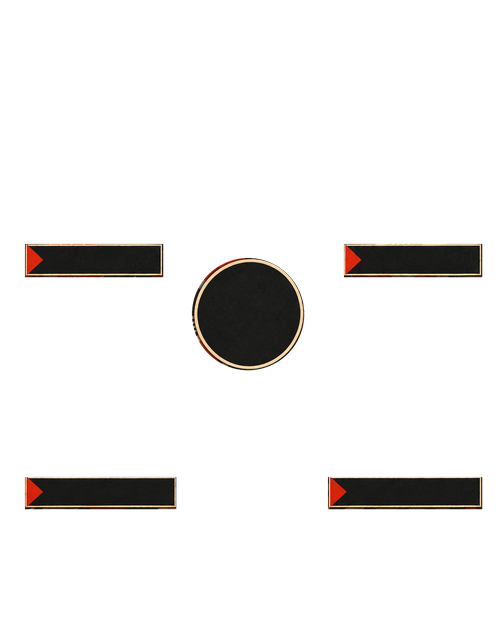
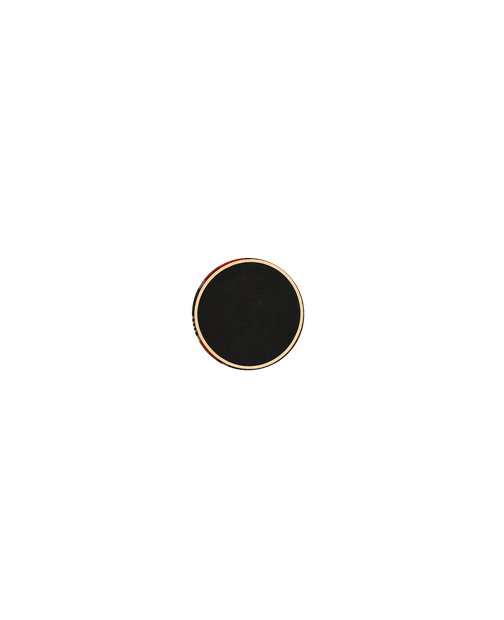
Remove sector counter plaques while keeping graphic interactions

diff --git a/tools/preview_constructivist_dashboard.py b/tools/preview_constructivist_dashboard.py
@@ -63,7 +63,7 @@ def browser():
     # This export deliberately uses separate art / text / animation layers.
     # JavaScript demonstrator changes displayed sample state; never a save edit.
     s=['<!doctype html><html lang="zh-CN"><meta charset="utf-8"><meta name="viewport" content="width=device-width,initial-scale=1"><title>国家建设委员会 · 动态成品预览</title><style>',
-       'body{margin:0;background:#101211;color:#e3dfcf;font-family:"Microsoft YaHei",sans-serif}main{width:504px;margin:20px auto}header{font-size:12px;color:#aaa;margin-bottom:10px;display:flex;align-items:center;gap:9px}select{background:#242722;color:#e3dfcf;padding:5px;border:1px solid #665f4c}.panel{position:relative;width:504px;height:620px;background:#141412;box-shadow:0 8px 50px #0008}.back{position:absolute;left:6px;top:0;width:492px;height:615px}.text{position:absolute;text-align:center;line-height:18px;pointer-events:none;white-space:nowrap;text-shadow:1px 1px #000}.hit{position:absolute;border:0;background:transparent;color:inherit;cursor:pointer;z-index:3}.hit:hover,.hit:focus-visible{background:#e1cb9d18;outline:1px solid #e1cb9d88}.hit.on{box-shadow:inset 0 -2px #df371d}.anim{position:absolute;pointer-events:none;animation:turn 24s linear infinite}.still{animation:none}#all:hover,#all:active,#all:focus-visible{background:transparent;outline:none;box-shadow:none}.pip{position:absolute;top:365px;width:6px;height:4px;background:#e1cb9d}@keyframes turn{to{transform:rotate(360deg)}}.ledger{position:absolute;z-index:10;left:36px;top:105px;width:432px;height:419px;box-sizing:border-box;background:#131412fc;border:2px solid #e1cb9d;padding:12px 25px;font-size:15px;line-height:21px}.ledger h3{font-size:16px;text-align:center;margin:0 0 13px;padding:0 0 12px;border-bottom:2px solid #df371d}.ledger button{display:block;width:136px;margin:10px auto 0;background:#282820;border:1px solid #e1cb9d;color:#e3dfcf;padding:3px;cursor:pointer}.ledger[hidden]{display:none}footer{font-size:12px;color:#b6ae9d;line-height:1.7;margin-top:10px}@media(max-width:530px){main{margin:10px auto;transform-origin:top left}}@media(prefers-reduced-motion:reduce){.anim{animation:none}}</style>',
+       'body{margin:0;background:#101211;color:#e3dfcf;font-family:"Microsoft YaHei",sans-serif}main{width:504px;margin:20px auto}header{font-size:12px;color:#aaa;margin-bottom:10px;display:flex;align-items:center;gap:9px}select{background:#242722;color:#e3dfcf;padding:5px;border:1px solid #665f4c}.panel{position:relative;width:504px;height:620px;background:#141412;box-shadow:0 8px 50px #0008}.back{position:absolute;left:6px;top:0;width:492px;height:615px}.text{position:absolute;text-align:center;line-height:18px;pointer-events:none;white-space:nowrap;text-shadow:1px 1px #000}.hit{position:absolute;border:0;background:transparent;color:inherit;cursor:pointer;z-index:3}.hit:hover,.hit:focus-visible{background:#e1cb9d18;outline:1px solid #e1cb9d88}[id^="s-"].hit:hover,[id^="s-"].hit:focus-visible{background:transparent;outline:none}[id^="r-"].hit.on{box-shadow:inset 0 -2px #df371d}.anim{position:absolute;pointer-events:none;animation:turn 24s linear infinite}.still{animation:none}#all:hover,#all:active,#all:focus-visible{background:transparent;outline:none;box-shadow:none}.pip{position:absolute;top:365px;width:6px;height:4px;background:#e1cb9d}@keyframes turn{to{transform:rotate(360deg)}}.ledger{position:absolute;z-index:10;left:36px;top:105px;width:432px;height:419px;box-sizing:border-box;background:#131412fc;border:2px solid #e1cb9d;padding:12px 25px;font-size:15px;line-height:21px}.ledger h3{font-size:16px;text-align:center;margin:0 0 13px;padding:0 0 12px;border-bottom:2px solid #df371d}.ledger button{display:block;width:136px;margin:10px auto 0;background:#282820;border:1px solid #e1cb9d;color:#e3dfcf;padding:3px;cursor:pointer}.ledger[hidden]{display:none}footer{font-size:12px;color:#b6ae9d;line-height:1.7;margin-top:10px}@media(max-width:530px){main{margin:10px auto;transform-origin:top left}}@media(prefers-reduced-motion:reduce){.anim{animation:none}}</style>',
        '<main><header>动态预览 · 演示数据 <label>状态 <select id="sample"><option value="1">建设进行中</option><option value="0">建设账本初建</option><option value="2">建设成果扩大</option></select></label></header><div class="panel" id="panel"><img class="back" src="../../gfx/interface/RUS_national_plan_dashboard/background.png" alt="构成主义国家建设界面">']
     s.append('<style>.sectoranim{position:absolute;pointer-events:none;animation:sectorframes var(--duration) steps(64) infinite}.sectoranim.still{animation:none;background-position:0 0}.sectoranim.power.still{opacity:0}@keyframes sectorframes{to{background-position:var(--distance) 0}}@media(prefers-reduced-motion:reduce){.sectoranim{animation:none}}</style>')
     for i,(name,(x,y,w,h,fps)) in enumerate(MOTIONS.items(),1):
@@ -79,7 +79,7 @@ def browser():
     button('all',202,270,92,100,'显示全部地区、全部工程')
     for i,(x,y) in enumerate([(18,110),(328,110),(18,378),(328,378)],1):button(f's-{i}',x,y,158,166,'筛选'+LOC[P+f'sector_{i}'])
     for i,name in enumerate(REGION_NAMES):button(f'r-{i+1}',41+i%3*144,554+i//3*29,136,24,'筛选'+name)
-    s.append('<section class="ledger" id="ledger" hidden><h3>国家建设账本</h3><div id="ledger-content"></div><button id="close">收起账本</button></section></div><footer id="filter-note">点击四个产业标牌或下方地区切换筛选；点击中央分数恢复全部。<br>点击标题展开账本。此页用于查看动效与排版，游戏内显示真实存档数值。</footer></main>')
+    s.append('<section class="ledger" id="ledger" hidden><h3>国家建设账本</h3><div id="ledger-content"></div><button id="close">收起账本</button></section></div><footer id="filter-note">点击四块产业图案或下方地区切换筛选；点击中央分数恢复全部。<br>点击标题展开账本。此页用于查看动效与排版，游戏内显示真实存档数值。</footer></main>')
     s.append('<script>const templates='+json.dumps({r[0]:LOC[r[6]] for r in LABELS},ensure_ascii=False)+';const ledgerTemplate='+json.dumps(LOC[P+'ledger_body'],ensure_ascii=False)+';const base='+json.dumps(VARS)+';const regions='+json.dumps(['全部地区']+REGION_NAMES,ensure_ascii=False)+';const sectors='+json.dumps(['全部工程']+[LOC[P+f'sector_{i}'] for i in range(1,5)],ensure_ascii=False)+';')
     s.append(r'''let region=0,sector=0,state=1;const el=id=>document.getElementById(id);function formatted(s,v){s=s.replace(/\[RUSNPScoreCaption\]/g,state?'一五计划分数':'预备建设分数').replace(/\[RUSNPScoreValue\]/g,(state?v.RUS_first_five_year_plan_score:0).toFixed(1)).replace(/\[RUSNPStageCaption\]/g,state?'阶段 '+v.RUS_first_five_year_plan_stage:'计划未启动').replace(/\[RUSNPRegionName\]/g,regions[region]).replace(/\[RUSNPSectorName\]/g,sectors[sector]);s=s.replace(/\[\?([\w]+)\|(%?)(\d+)\]/g,(_,k,p,n)=>((v[k]||0)*(p?100:1)).toFixed(+n)+(p?'%':''));return '<span>'+s.replace(/§([CYGR!])/g,(_,c)=>'</span><span style="color:'+({C:'#77c9db',Y:'#f0cb75',G:'#91ba80',R:'#ed543d','!':'#e3dfcf'}[c])+'">').replace(/\n/g,'<br>')+'</span>'}function update(){let v={...base};if(state===0)Object.assign(v,{RUS_np_available:1200,RUS_np_frozen:0,RUS_np_active:0,RUS_np_trains:0,RUS_np_rail_display:0,RUS_np_spent:0,RUS_np_free_slots:7,RUS_first_five_year_plan_score:0,RUS_first_five_year_plan_stage:0});if(state===2)Object.assign(v,{RUS_np_available:2634.75,RUS_np_frozen:420,RUS_np_active:6,RUS_np_trains:90,RUS_np_rail_display:2.5,RUS_np_spent:1480,RUS_np_free_slots:1,RUS_first_five_year_plan_score:136.5,RUS_first_five_year_plan_stage:5});for(let i=1;i<=4;i++){v['RUS_np_ui_active_'+i]=state?(region?(i===((region-1)%4+1)?1:0):(state===2&&i<3?2:1)):0;v['RUS_np_ui_done_'+i]=state?(region?i:i+1+(state===2?3:0)):0;el('s-'+i).classList.toggle('on',sector===i);el('s-'+i).setAttribute('aria-pressed',sector===i)}for(const [k,t] of Object.entries(templates))el(k).innerHTML=formatted(t,v);for(let i=1;i<=6;i++){el('r-'+i).classList.toggle('on',region===i);el('r-'+i).setAttribute('aria-pressed',region===i);el('pip-'+(i-1)).style.display=i<=v.RUS_first_five_year_plan_stage?'block':'none'}for(const id of ['score_label','score','stage'])el(id).style.display=state?'block':'none';el('anim-rotor').classList.toggle('still',!state);for(let i=1;i<=4;i++)el('anim-sector-'+i).classList.toggle('still',!v['RUS_np_ui_active_'+i]);el('ledger-content').innerHTML=formatted(ledgerTemplate,v)}el('ledger-toggle').onclick=()=>el('ledger').hidden=!el('ledger').hidden;el('close').onclick=()=>el('ledger').hidden=true;el('all').onclick=()=>{region=sector=0;update()};for(let i=1;i<=6;i++)el('r-'+i).onclick=()=>{region=region===i?0:i;update()};for(let i=1;i<=4;i++)el('s-'+i).onclick=()=>{sector=sector===i?0:i;update()};el('sample').onchange=e=>{state=+e.target.value;update()};update();</script></html>''')
     (OUT/'interactive.html').write_text('\n'.join(s),encoding='utf8')

diff --git a/tools/national_plan_dashboard.py b/tools/national_plan_dashboard.py
@@ -28,18 +28,6 @@ LABELS = [
  ('score', 205, 309, 86, 25, 'hoi_24header', P+'score'),
  ('stage', 205, 343, 86, 18, 'Main_14', P+'stage'),
  ('status', 78, 534, 348, 18, 'Main_14', P+'status')]
-for i,(x,y,w) in enumerate(SECTOR_POS,1):
-    # Separate words and values: changing the numeric font must not enlarge
-    # Chinese captions. Give two-character labels genuine wrapping slack;
-    # native layout wraps at an exact 28px fit even when glyph advances fit.
-    # Sector names live in the existing clickable-area tooltip, not this plaque.
-    left=x+12+(w-14-120)//2
-    for suffix,dx,width,font,key,dy in [
-        ('active_label',0,40,'Main_14',P+'active_label',7),
-        ('active_value',40,20,'hoi_16mbs',P+f'active_value_{i}',6),
-        ('done_label',60,40,'Main_14',P+'done_label',7),
-        ('done_value',100,20,'hoi_16mbs',P+f'done_value_{i}',6)]:
-        LABELS.append((f'sector_{i}_{suffix}',left+dx,y+dy,width,18,font,key))
 for i in range(1,7):
     LABELS.append((f'region_{i}_label',42+(i-1)%3*144,557+(i-1)//3*29,132,18,'Main_14',P+f'region_{i}'))
 
@@ -137,8 +125,6 @@ def augment(out):
         ax,ay=[(18,110),(328,110),(18,378),(328,378)][i-1]
         button(f'sector_{i}',ax,ay,'area',P+f'sector_{i}_tt',f'if = {{ limit = {{ check_variable = {{ {P}sector = {i} }} }} set_variable = {{ {P}sector = 0 }} }} else = {{ set_variable = {{ {P}sector = {i} }} }} RUS_np_refresh = yes')
         triggers.append(f'sector_{i}_visible = {{ NOT = {{ has_country_flag = {P}ledger_open }} }}')
-        icon(f'sector_{i}_selected',x+13,y+29,'selected_sector')
-        triggers.append(f'sector_{i}_selected_visible = {{ check_variable = {{ {P}sector = {i} }} }}')
         loc[P+f'sector_{i}']=SECTORS[i][0]
         loc[P+f'counts_{i}']=f'在建 §Y[?{P}active_{i}|0]§!  竣工 §G[?{P}done_{i}|0]§!'
         loc[P+f'active_value_{i}']=f'§Y[?{P}active_{i}|0]§!'

diff --git a/tools/build_constructivist_dashboard.py b/tools/build_constructivist_dashboard.py
@@ -29,12 +29,10 @@ def wheel():
 
 @lru_cache(None)
 def foreground():
-    """Stationary original score face and plaques above the rotating disk."""
+    """Stationary original score face above the rotating disk."""
     im=Image.new('RGBA',(504,620));im.alpha_composite(Image.open(SOURCE).convert('RGBA').resize((492,615),Image.Resampling.LANCZOS),(6,0))
     mask=Image.new('L',(504*4,620*4));d=ImageDraw.Draw(mask)
     d.ellipse(tuple(v*4 for v in (192,258,304,370)),fill=255)
-    for rect in [(25,244,163,277),(344,244,482,277),(25,477,176,509),(328,477,482,509)]:
-        d.rectangle(tuple(v*4 for v in rect),fill=255)
     im.putalpha(mask.resize((504,620),Image.Resampling.LANCZOS))
     return im
 
@@ -56,9 +54,7 @@ def export():
         d.rectangle((w,0,w*2-1,h-1),fill=(239,218,175,22),outline=(239,218,175,120))
         d.rectangle((w*2,0,w*3-1,h-1),fill=(212,57,27,65),outline=RED)
         if name=='area':
-            im=Image.new('RGBA',(w*3,h));d=ImageDraw.Draw(im)
-            d.rectangle((w,0,w*2-1,h-1),fill=(239,218,175,14))
-            d.rectangle((w*2,0,w*3-1,h-1),fill=(212,57,27,24))
+            im=Image.new('RGBA',(w*3,h))
         if name=='score':
             # The invisible circular-face control must never expose a rectangle,
             # including native hover and pressed frames.

diff --git a/tools/dashboard_sector_motion.py b/tools/dashboard_sector_motion.py
@@ -27,16 +27,9 @@ def part(name):
 
 @lru_cache(None)
 def clean_background():
-    """Only adopt the generated empty-track patch; preserve every other pixel."""
-    original=Image.open(SOURCE/'backplate.png').convert('RGBA')
-    clean=Image.open(PARTS/'clean_track.png').convert('RGBA').resize(original.size,Image.Resampling.LANCZOS)
-    mask=Image.new('L',original.size)
-    d=ImageDraw.Draw(mask)
-    d.rectangle((20,910,518,1088),fill=255)
-    mask=mask.filter(ImageFilter.GaussianBlur(5))
-    # Labels and all artwork outside the train strip stay original.
-    merged=Image.composite(clean,original,mask)
-    return merged.resize((492,615),Image.Resampling.LANCZOS)
+    """ImageGen restored illustration without the four sector plaques."""
+    with Image.open(SOURCE/'no_plaques_v4/background.png') as im:
+        return im.convert('RGBA').resize((492,615),Image.Resampling.LANCZOS)
 
 @lru_cache(None)
 def freight_source():

diff --git a/tools/design/constructivist_dashboard_20261112/README.md b/tools/design/constructivist_dashboard_20261112/README.md
@@ -18,3 +18,7 @@
 - `dashboard_sector_motion.py`按原生64帧序列打包运动：电线低亮流动，三个倾斜滚筒端面转动，完整列车沿透视轨道放大前进，农业轮旋转。列车不是重复方块，农业轮不是统一光圈。每区按当前地区在建数切换动／静；无新增事件或每日调度。
 - 原生序列图宽均小于16384；只把部件所在局部区域打包，不将整屏复制64次。导出PNG总量约3.2MB（四条动画）；面板文字和中央点击区保持原样。HTML有独立四区状态，GIF以16fps的24秒完整周期展示（预览数据）。
 - 原生图元与结构检查通过；脚本GUI仍只有既有刷新helper未索引诊断。生成源和运行36输出一致。动画实际加载、循环及工程开始／结束切换仍需用户重启钢四测试。
+
+## 2026-11-13：四区仅保留图案
+
+用户取消四区统计条。运行背景改用内置ImageGen修复后的no_plaques_v4/background.png；四块底条、箭头、统计文字和选中横线均移除。前景只保留中央分数面，透明产业图案仍可点击与显示原悬浮提示。顶部、底部按钮和中央启用显示条件保持。生成提示、尺寸和实际验证状态见对应prompt.txt及asset_manifest.json。

diff --git a/MOD制作日志.md b/MOD制作日志.md
@@ -1,6 +1,12 @@
 # [KR] 多么幼稚的幻想，但是斯大林——制作日志与开发备忘
 
-最后更新：2026-11-12
+最后更新：2026-11-13
+
+## 2026-11-13 — 移除四区域在建/竣工条
+
+- 按用户要求去除四区域统计文字、黑色底条、红箭头和选中横线。使用内置ImageGen补齐四处被遮挡的构成主义图案；完整源图及提示词归档no_plaques_v4，不修改此前生成源图。
+- 固定前景层不再恢复四块底条，仅保留中央分数面；透明图案点击区保留，悬浮分类名及原提示、筛选回调、工程状态动画全部沿用。顶部资源账目、中央分数启用规则及底部地区按钮保持。
+- 更新生成源、运行贴图和预览；生成一致性、GUI检查及结构扫描，原生尺寸合成图已目视确认底条消失，游戏内仍需重启检查。仅测试开发目录，未同步上传目录或GitHub。
 
 ## 2026-11-12 — 分类牌仅保留横排统计
 
